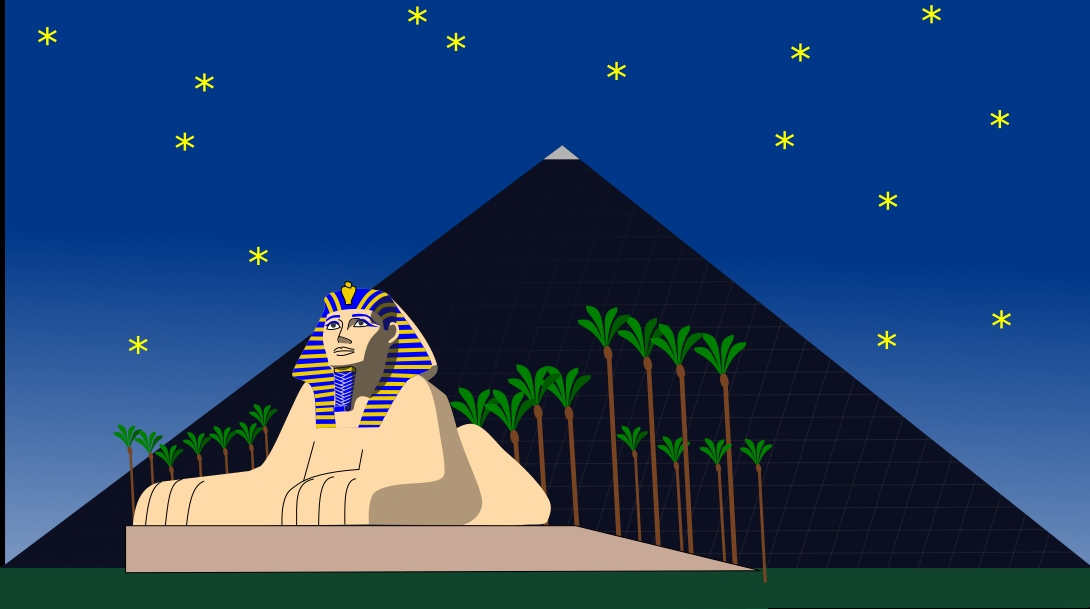
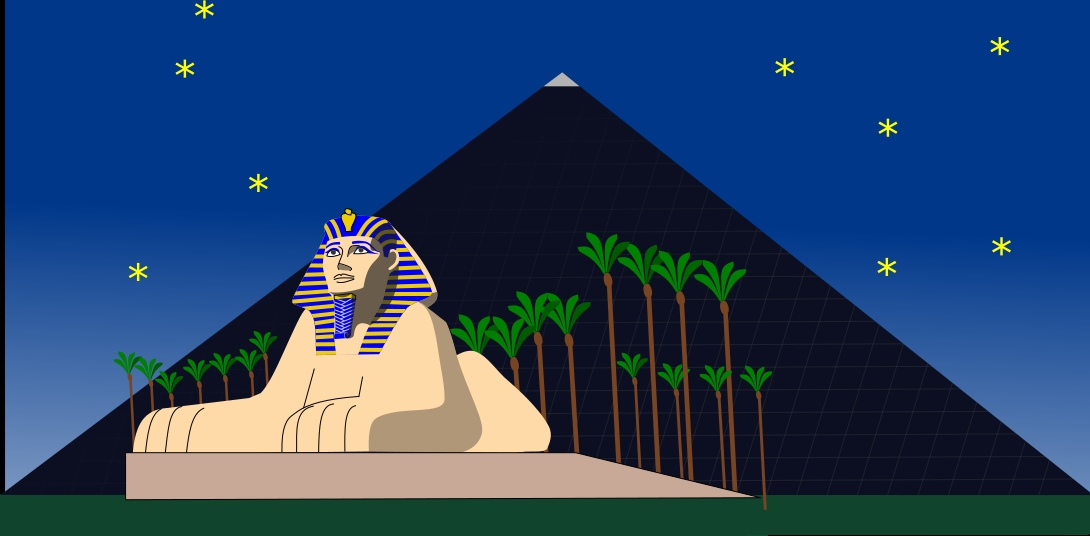
feat:small-changes-style

diff --git a/src/components/Container/telaselec.js b/src/components/Container/telaselec.js
@@ -4,14 +4,14 @@ import telaSelecao from '../../assets/telaSelecao.jpg';
 export const BackgroundSelec = styled.div`
     background-image: url(${telaSelecao});
     background-repeat: no-repeat;
-    width: 100%;
-    height: 50rem;
+    width: 100vw;
+    height: 100vh;
     display: flex;
     background-size: contain;
     justify-content: center;
     background-size: 100% 100%;
-    padding: 4rem;
-    flex-direction: column;
+    /* padding-top: -8rem; */
+    flex-direction: row;
     align-items: center;
-    justify-content: flex-start;
+    justify-content: flex-end;
 `;

diff --git a/src/components/Container/background.js b/src/components/Container/background.js
@@ -4,13 +4,13 @@ import background from '../../assets/background.jpg';
 export const Background = styled.div`
     background-image: url(${background});
     background-repeat: no-repeat;
-    width: 100%;
-    height: 50rem;
+    width: 100vw;
+    height: 100vh;
     display: flex;
     background-size: contain;
     justify-content: center;
     background-size: 100% 100%;
-    padding: 4rem;
+    padding: 3rem;
     flex-direction: column;
     align-items: center;
     justify-content: flex-start;

diff --git a/src/components/Container/placa.js b/src/components/Container/placa.js
@@ -4,12 +4,12 @@ import bemVindo from '../../assets/bemVindo.png';
 export const PlacaBV = styled.div`
     background-image: url(${bemVindo});
     background-repeat: no-repeat;
-    width: 50rem;
-    height: 44rem;
+    width: 43rem;
+    height: 38rem;
     display: flex;
     background-size: contain;
     justify-content: center;
     align-items: flex-end;
     background-size: 100% 100%;
-    padding: 4rem;
+    padding: 3rem;
 `;

diff --git a/src/components/Button/index.js b/src/components/Button/index.js
@@ -6,8 +6,8 @@ export const ButtonB = styled.button`
   background-repeat: no-repeat;
   background-color: transparent;
   background-size: contain;
-  width: 7rem;
-  height: 7rem;
+  width: 5rem;
+  height: 5rem;
   border: none;
   font-size: large;
 
